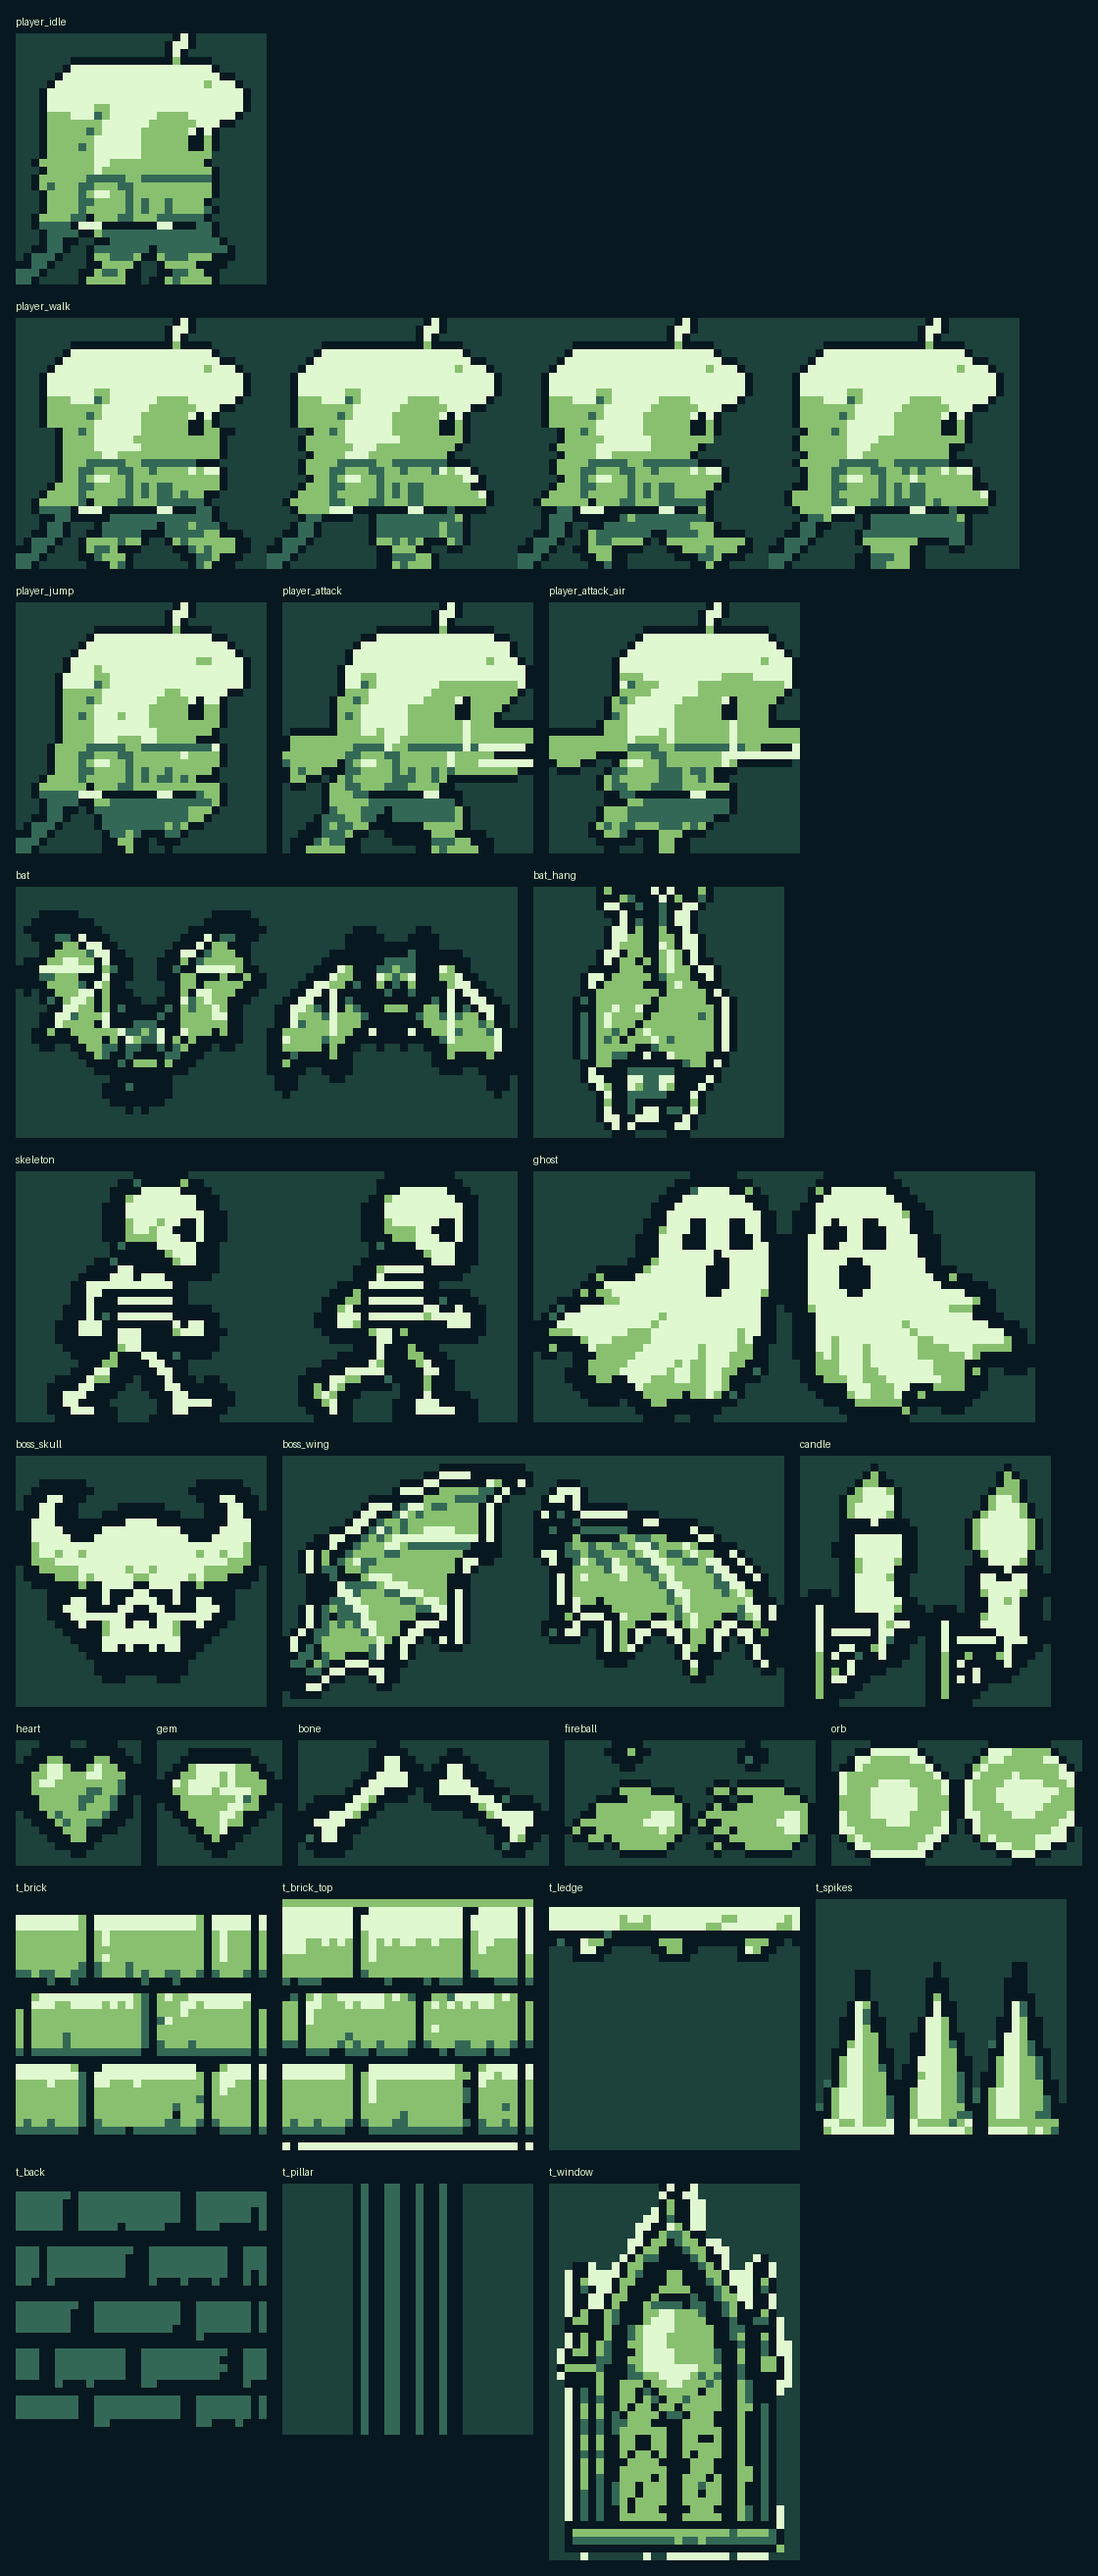
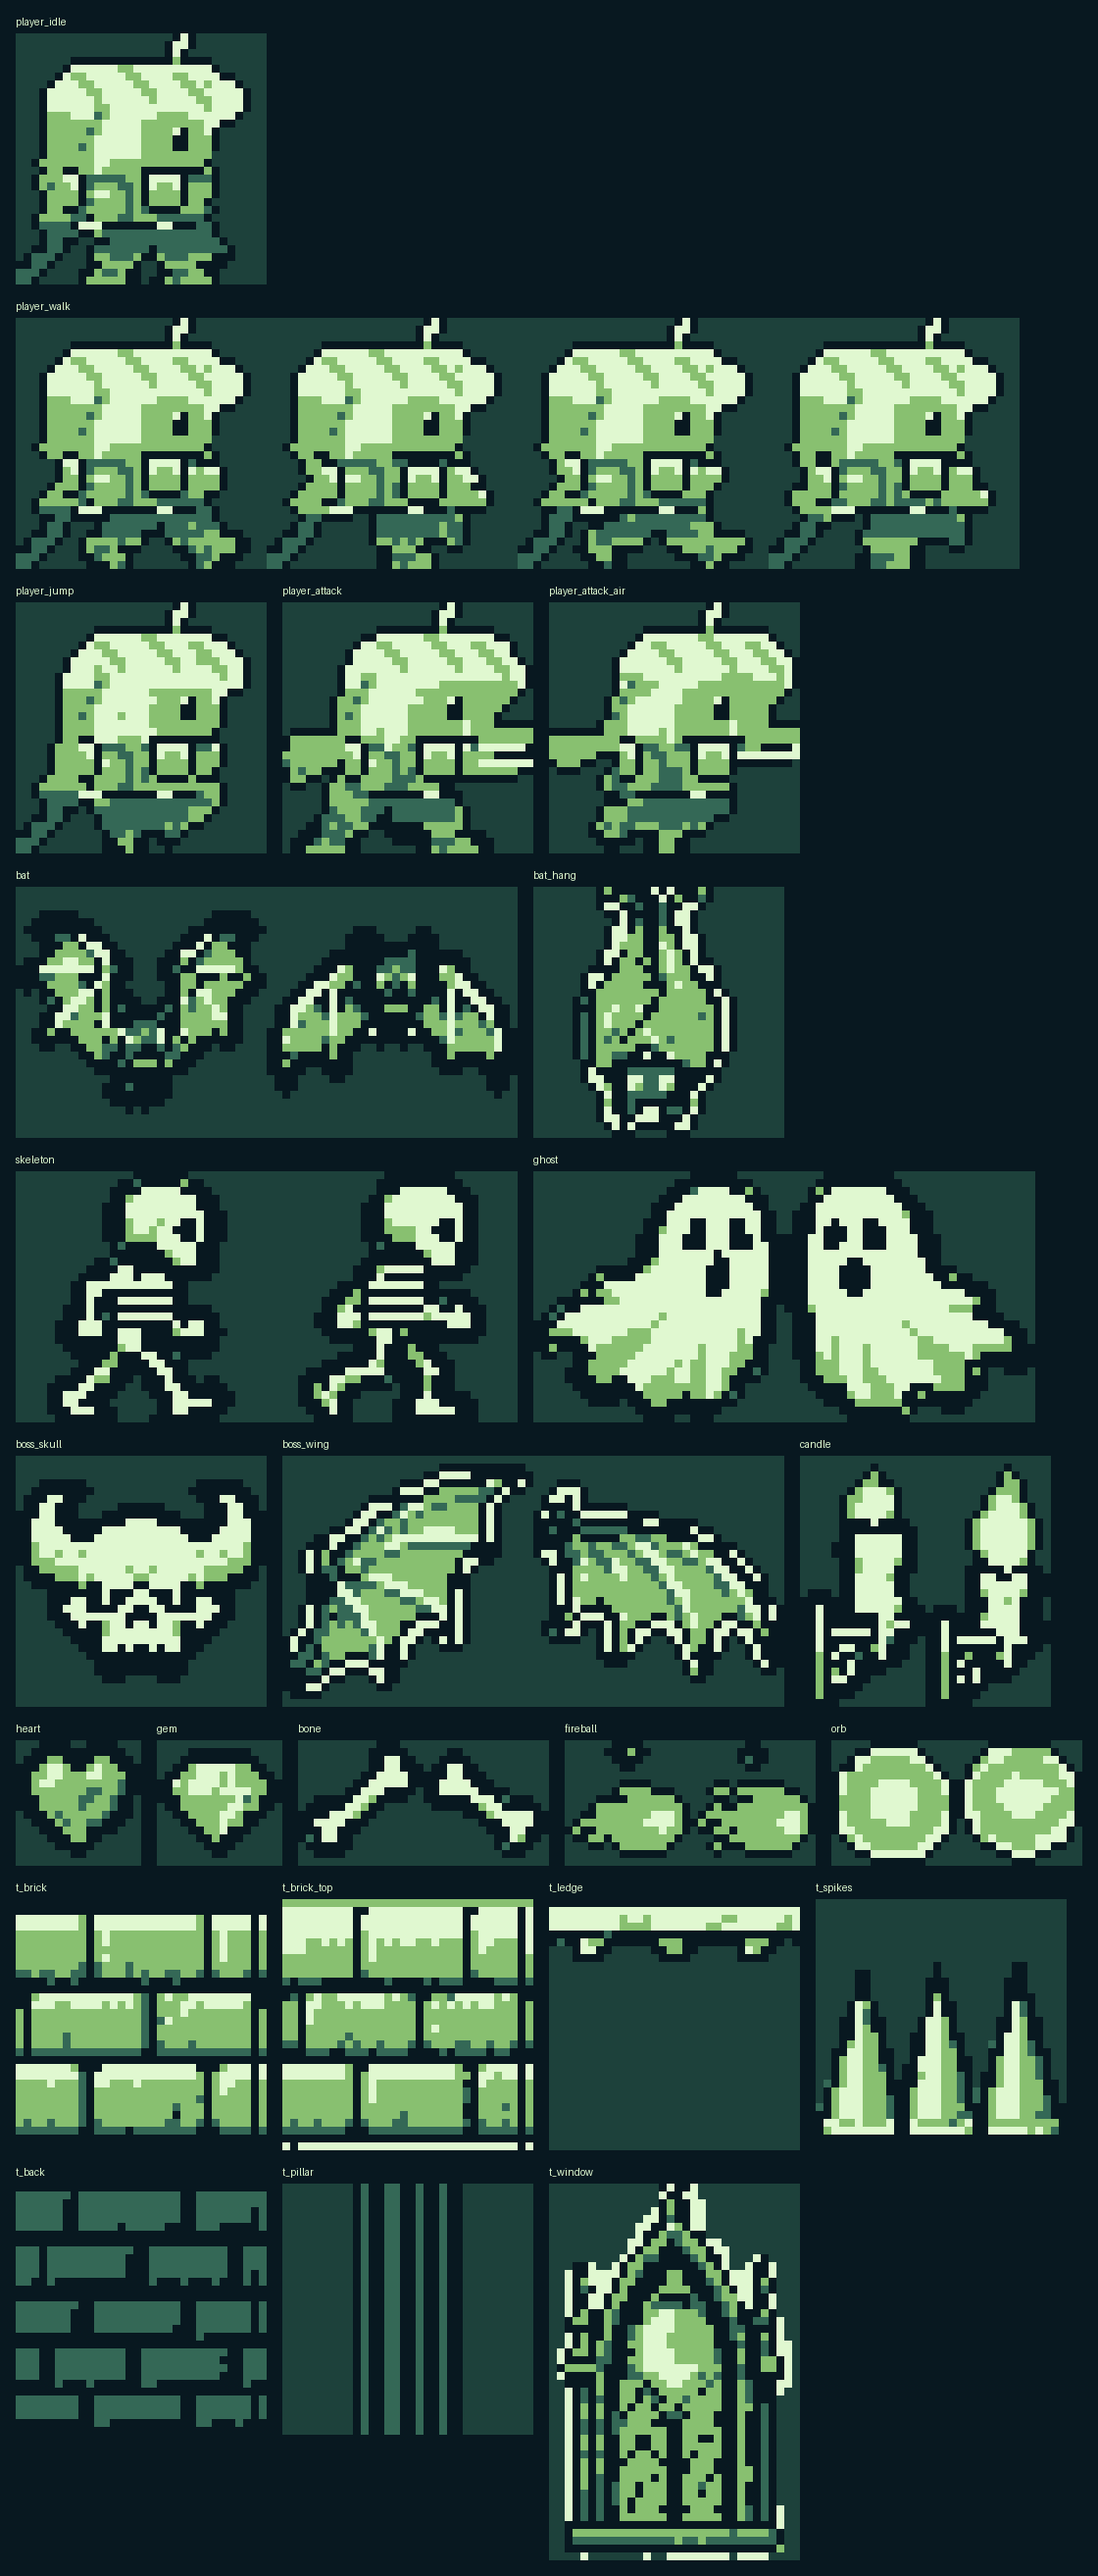
Refine knight face, hair, and shoulder armor

diff --git a/sw.js b/sw.js
@@ -1,5 +1,5 @@
 // オフラインで遊べるようにファイルをキャッシュ。更新したら VERSION を上げる
-const VERSION = "mk-v6-k2-sprites-91ed4acbcbe7";
+const VERSION = "mk-v6-k2-sprites-5a86067da986";
 const FILES = ["./", "index.html", "manifest.webmanifest", "js/sprites.js", "js/audio.js", "js/level.js", "js/game.js",
   "icons/icon-192.png", "icons/icon-512.png", "assets/overrides.json",
   './assets/player_idle.png',

diff --git a/tools/knight_details.py b/tools/knight_details.py
@@ -1,0 +1,71 @@
+"""Stamp the knight's small 32px landmarks using frame-local coordinates."""
+
+import numpy as np
+
+
+PAULDRON = np.array([
+    [0, 4, 4, 4, 4, 0],
+    [4, 1, 1, 1, 1, 4],
+    [4, 1, 2, 2, 1, 4],
+    [4, 2, 2, 2, 2, 4],
+    [4, 2, 2, 2, 2, 4],
+    [0, 4, 4, 4, 4, 0],
+], dtype=np.uint8)
+EYE = np.array([[1, 4], [4, 4], [4, 4]], dtype=np.uint8)
+
+
+def hair_points(strokes):
+    for x, y, length in strokes:
+        for i in range(length):
+            yield y + i, x + i
+            if i:
+                yield y + i - 1, x + i
+
+
+def shoulders(details):
+    x, y = details["pauldron_back"]
+    yield np.s_[y - 3:y + 3, x:x + 3], PAULDRON[:, 3:]
+    x, y = details["pauldron"]
+    yield np.s_[y - 3:y + 3, x - 3:x + 3], PAULDRON
+
+
+def stamp(frame, details):
+    result = np.array(frame, dtype=np.uint8, copy=True)
+    if result.shape != (32, 32):
+        raise ValueError("Knight detail stamps require a 32x32 indexed frame")
+    for y, x in hair_points(details["hair_strokes"]):
+        result[y, x] = 2
+    left, right, y = details["fringe"]
+    result[y, left:right + 1] = 2
+
+    # Erase the earlier eye before painting the skin gap and the relocated eye.
+    result[12:15, 22:24] = 2
+    x, y = details["eye"]
+    result[y:y + 3, x + 2:x + 4] = 2
+    result[y:y + 3, x:x + 2] = EYE
+
+    left, right, y = details["chin"]
+    result[y, left:right + 1] = 4
+    for region, mask in shoulders(details):
+        panel = result[region]
+        if panel.shape != mask.shape:
+            raise ValueError("Knight pauldron stamp extends beyond the frame")
+        panel[mask != 0] = mask[mask != 0]
+    return result
+
+
+def has_stamps(frame, details):
+    x, y = details["eye"]
+    if not (np.array_equal(frame[y:y + 3, x:x + 2], EYE)
+            and np.all(frame[y:y + 3, x + 2:x + 4] == 2)):
+        return False
+    left, right, y = details["chin"]
+    if not np.all(frame[y, left:right + 1] == 4):
+        return False
+    for region, mask in shoulders(details):
+        panel = frame[region]
+        if panel.shape != mask.shape or not np.array_equal(panel[mask != 0], mask[mask != 0]):
+            return False
+    left, right, y = details["fringe"]
+    return (np.all(frame[y, left:right + 1] == 2)
+            and all(frame[y, x] == 2 for y, x in hair_points(details["hair_strokes"])))

diff --git a/tools/hires_parts.py b/tools/hires_parts.py
@@ -4,13 +4,15 @@ import numpy as np
 from PIL import Image
 
 if __package__:
+    from . import knight_details as stamps
     from . import knight_parts as knight, sprite_grid as grid
 else:
+    import knight_details as stamps
     import knight_parts as knight
     import sprite_grid as grid
 
 
-HEAD_ROWS = 14
+HEAD_ROWS = 18
 REDUCTION_ORDER = "EABOFPHCWTSLK."
 SHADE_ORDER = (4, 1, 2, 3, 0)
 
@@ -337,17 +339,13 @@ def score_detail(parts):
     return sum(anchors.values()) / len(anchors)
 
 
-def has_knight_details(frame, attacking):
-    eye = frame[12:15, 22:24]
+def has_knight_details(frame, attacking, details):
     braid = frame[9:15, 8:12]
-    pauldron = frame[19:24, 9:14]
-    hilt = frame[15:19, 23] if attacking else frame[24, 8:11]
+    hilt = frame[15:18, 23] if attacking else frame[24, 8:11]
     return all((
-        np.count_nonzero(eye == 4) == 5 and np.count_nonzero(eye == 1) == 1,
+        stamps.has_stamps(frame, details),
         np.count_nonzero(frame[:4] == 1) == 4,
         np.count_nonzero(braid == 3) >= 2 and np.count_nonzero(braid == 2) >= 4,
-        np.count_nonzero(pauldron == 2) >= 8 and np.any(pauldron == 1),
-        np.all(frame[21:23, [16, 19]] == 3),
         np.all(frame[24, 18:20] == 1) and np.any(hilt == 1),
     ))
 
@@ -371,9 +369,10 @@ def evaluate(sample, agreement, name, spec, target, thresholds):
             templates.append(float(weights[(parts == target) & overlap].sum() / weights[overlap].sum()))
             details.append(score_detail(parts))
             frame, shares, hair_ink = knight_details(parts, target, name)
+            layout = spec["details"][i]
             torso = knight_interior(frame)[18:]
             torso_dark = np.count_nonzero(torso & (frame[18:] == 4)) / max(1, np.count_nonzero(torso))
-            if (not has_knight_details(frame, "attack" in name) or
+            if (not has_knight_details(stamps.stamp(frame, layout), "attack" in name, layout) or
                     max(shares[3], torso_dark) > .25 or hair_ink or len(checker_locations(frame))):
                 return None, {}
             balances.append(shade_balance(shares))

diff --git a/tools/polish_sprites.py b/tools/polish_sprites.py
@@ -12,9 +12,11 @@ import argparse
 import json
 import os
 import shutil
+import numpy as np
 from PIL import Image
+from knight_details import stamp
 from knight_parts import HEAD_ROWS
-from hires_parts import HEAD_ROWS as HIRES_HEAD_ROWS
+from hires_parts import HEAD_ROWS as HIRES_HEAD_ROWS, has_knight_details
 from sprite_palette import GREEN as PAL, SHADE_BY_RGB as IDX
 
 HERE = os.path.dirname(os.path.abspath(__file__))
@@ -86,6 +88,12 @@ def outline(px, fw, shade=OUTLINE):
 def polished_actor(name, spec):
     px = load(name)
     if name.startswith("player_"):
+        layouts = spec.get("details")
+        if len(px) == 32 and layouts:
+            if len(px[0]) != 32 * len(layouts) or len(layouts) != len(spec["frames"]):
+                raise ValueError(f"{name} must have one detail layout per frame")
+            frames = np.split(np.array(px, dtype=np.uint8), len(layouts), axis=1)
+            px = np.concatenate([stamp(frame, layout) for frame, layout in zip(frames, layouts)], axis=1).tolist()
         return px
     frame_width = len(px[0]) // len(spec["frames"])
     if spec.get("scale") == 2 and frame_width == spec["size"][0]:
@@ -115,6 +123,12 @@ def main():
                 head_rows = HIRES_HEAD_ROWS if len(idle[0]) == 32 else HEAD_ROWS
                 for y in range(head_rows):
                     px[y] = idle[y] * 4
+        if name.startswith("player_") and len(px) == 32 and sprites[name].get("details"):
+            layouts = sprites[name]["details"]
+            frames = np.split(np.array(px, dtype=np.uint8), len(layouts), axis=1)
+            for number, (frame, layout) in enumerate(zip(frames, layouts), 1):
+                if not has_knight_details(frame, "attack" in name, layout):
+                    raise ValueError(f"{name} frame {number} is missing a detail stamp")
         save(name, px)
 
 

diff --git a/tools/gen_sprites.py b/tools/gen_sprites.py
@@ -422,13 +422,13 @@ def update_knight_preview(sprites):
 
 
 def remember_baseline(sprites):
-    baseline = RAW / "_baseline_knight_cleanup"
+    baseline = RAW / "_baseline_knight_details"
     baseline.mkdir(exist_ok=True)
     snapshot = PREVIEW / "compare.png"
     stored = {}
     if snapshot.exists():
         with Image.open(snapshot) as previous:
-            stored = json.loads(previous.info.get("knight_cleanup_before", "{}"))
+            stored = json.loads(previous.info.get("knight_details_before", "{}"))
     for name in sprites:
         if not name.startswith("player_"):
             continue
@@ -446,7 +446,7 @@ def remember_baseline(sprites):
 def update_comparison(sprites):
     panels = []
     knight_specs = {name: spec for name, spec in sprites.items() if name.startswith("player_")}
-    before = RAW / "_baseline_knight_cleanup"
+    before = RAW / "_baseline_knight_details"
     if not all((before / f"{name}.png").is_file() for name in knight_specs):
         return
     baseline = {}
@@ -486,7 +486,7 @@ def update_comparison(sprites):
     output.paste(panels[0], (0, 0))
     output.paste(panels[1], (0, panels[0].height))
     metadata = PngImagePlugin.PngInfo()
-    metadata.add_text("knight_cleanup_before", json.dumps(baseline, separators=(",", ":")), zip=True)
+    metadata.add_text("knight_details_before", json.dumps(baseline, separators=(",", ":")), zip=True)
     output.save(PREVIEW / "compare.png", pnginfo=metadata)
 
 

diff --git a/README.md b/README.md
@@ -56,7 +56,7 @@ python tools/gen_sprites.py --pick player_walk=2
 - API での生成は高品質設定で 1 種につき候補を 4 枚作ります。歩きは横一列でまとめて描く方法と、立ち絵から1コマずつ作る方法を比較します。最高点が基準を下回る場合はプロンプトを調整し、さらに4候補まで生成します。
 - `--reprocess` は全素材を読み取り直します。`assets/raw/hires_32/` の原画がなければ、候補一覧 PNG に保存したフルカラーのサンプルを使います。`--only` で対象を絞り、`--pick 名前=番号` で採用候補を選び直せます。どちらも API に接続しません。
 - 既定モデルは `gpt-image-1` です。環境変数 `IMAGE_MODEL` または `--model` で、透過 PNG に対応するモデルに変更できます。
-- 各素材をフルカラーで完成サイズの縦横2倍に生成します。例えば主人公は64×64を読み取り、HSVで部位を分け、2×2ごとに優先度の高い部位を残して32×32にします。敵・アイテム・背景も素材の色を分類したうえで縮めます。主人公は配置図との一致と細部の読めやすさを採点し、歩きの上14行を全コマで立ち絵に揃えます。
+- 各素材をフルカラーで完成サイズの縦横2倍に生成します。例えば主人公は64×64を読み取り、HSVで部位を分け、2×2ごとに優先度の高い部位を残して32×32にします。敵・アイテム・背景も素材の色を分類したうえで縮めます。主人公は配置図との一致と細部の読めやすさを採点し、歩きの上18行を全コマで立ち絵に揃えます。
 - 採用候補を `assets/source/` に保存し、`tools/polish_sprites.py` を自動実行してゲーム用の `assets/` を更新します。その後 `overrides.json` と `sw.js` のキャッシュ設定を更新します。仕上がりは [8倍拡大の一覧](assets/preview/_sheet.png) と [候補・採点一覧](assets/preview/candidates/) で確認できます。
 
 手動で差し替える場合は `assets/<スプライト名>.png` を置き、`assets/overrides.json` の `sprites` に高解像度なら `{"w":32,"scale":2}` のように画像上の1フレーム幅と倍率を書きます。従来の数値指定は倍率1として使えます。城の壁は32×32の絵から、マップ座標に対応する画像上の16×16を切り出します。アーチ窓は32×48の全体を背景に表示します。
@@ -66,4 +66,4 @@ python tools/gen_sprites.py --pick player_walk=2
 記号：`#`壁 `=`乗れる足場 `^`トゲ `b`城の奥壁 `I`柱 `W`窓 `P`開始位置 `C`燭台 `B`コウモリ `S`ガイコツ `G`ゴースト `K`ボス `R`チェックポイント
 
 ### 生成した絵を見やすくする後処理
-`python3 tools/polish_sprites.py` だけを実行すると、手元にある `assets/source/` をゲーム用の配色と縁取りで仕上げ直せます。生成スクリプトから実行した場合、この処理も自動で行われます。
+`python3 tools/polish_sprites.py` だけを実行すると、手元にある `assets/source/` をゲーム用に仕上げ直せます。32×32の主人公には `tools/sprite_prompts.json` の各コマの `details` 座標に従って、目・あご線・肩当て・前髪を重ねます。生成スクリプトから実行した場合、この処理も自動で行われます。
